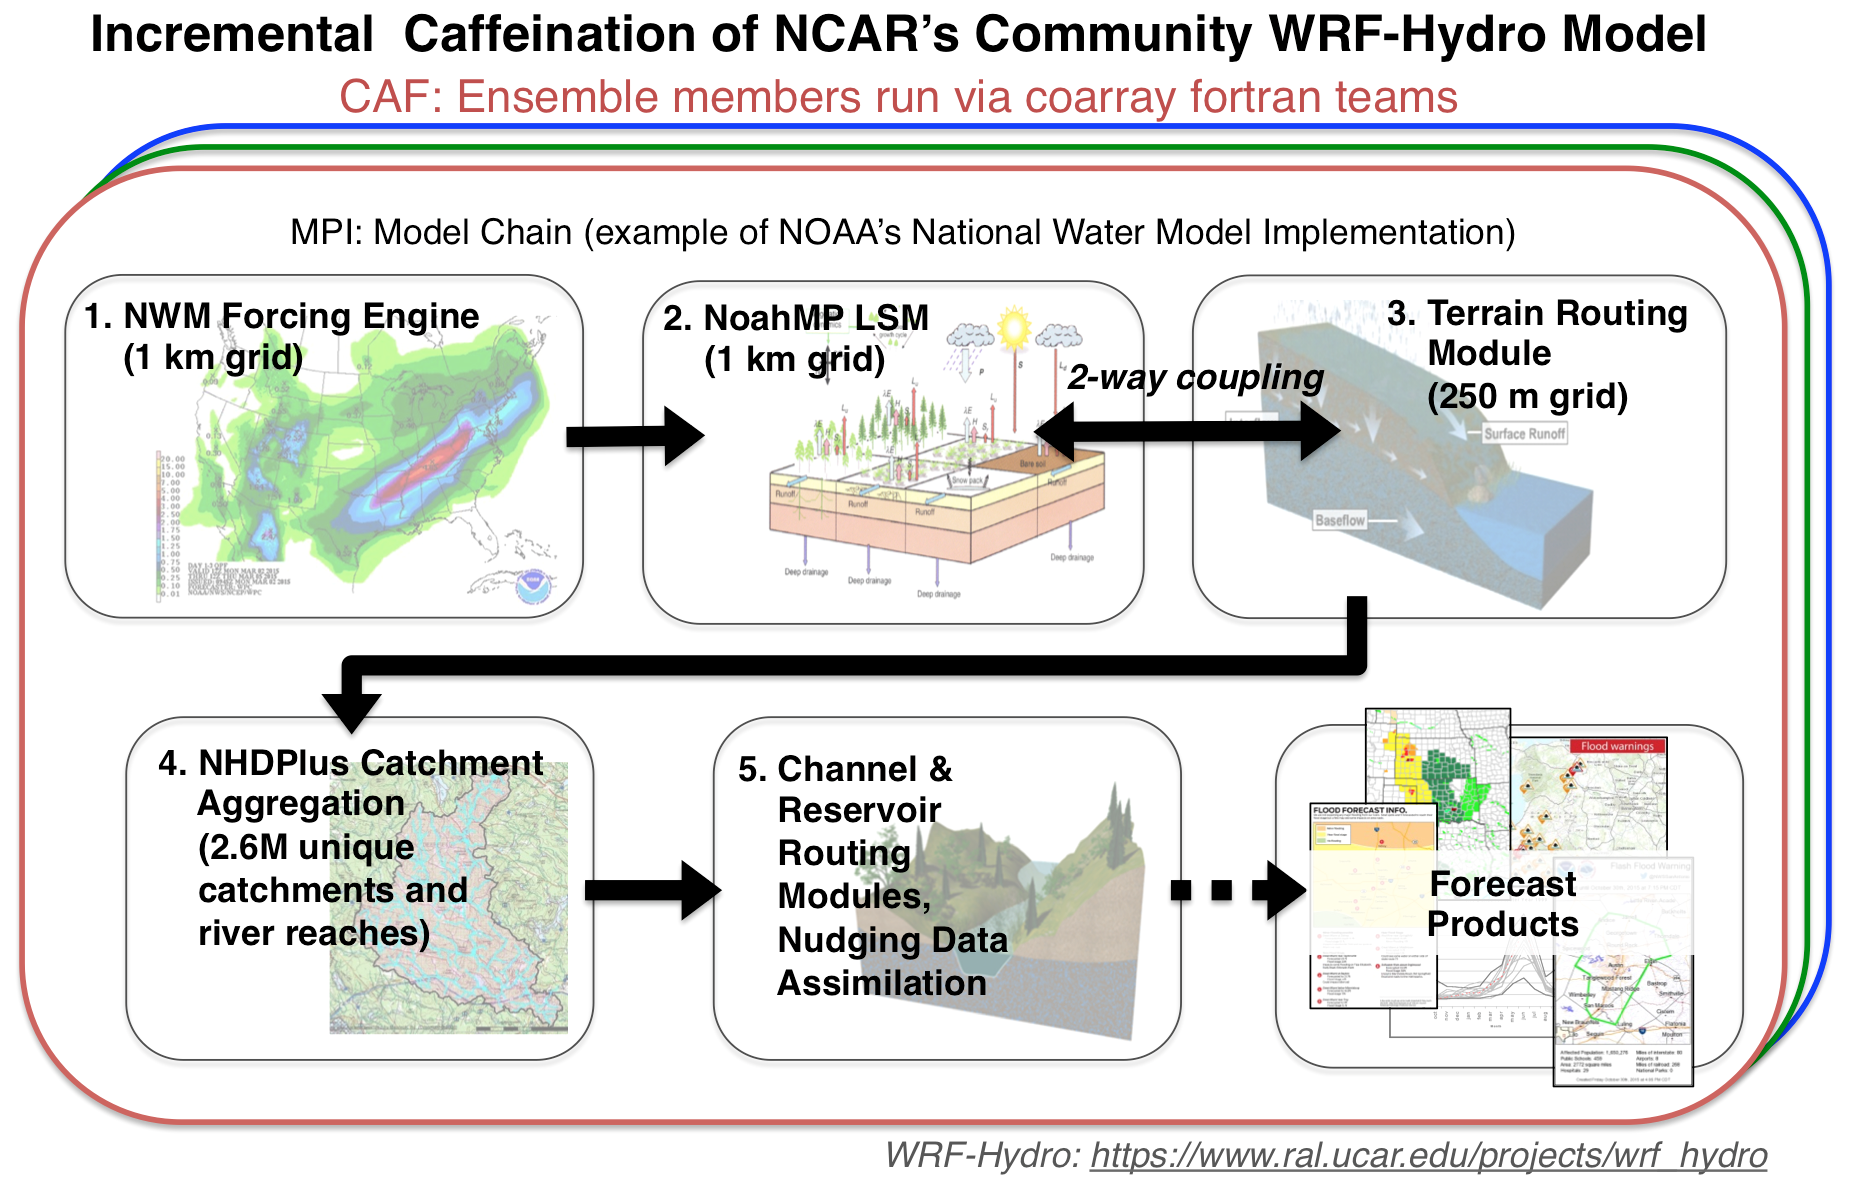
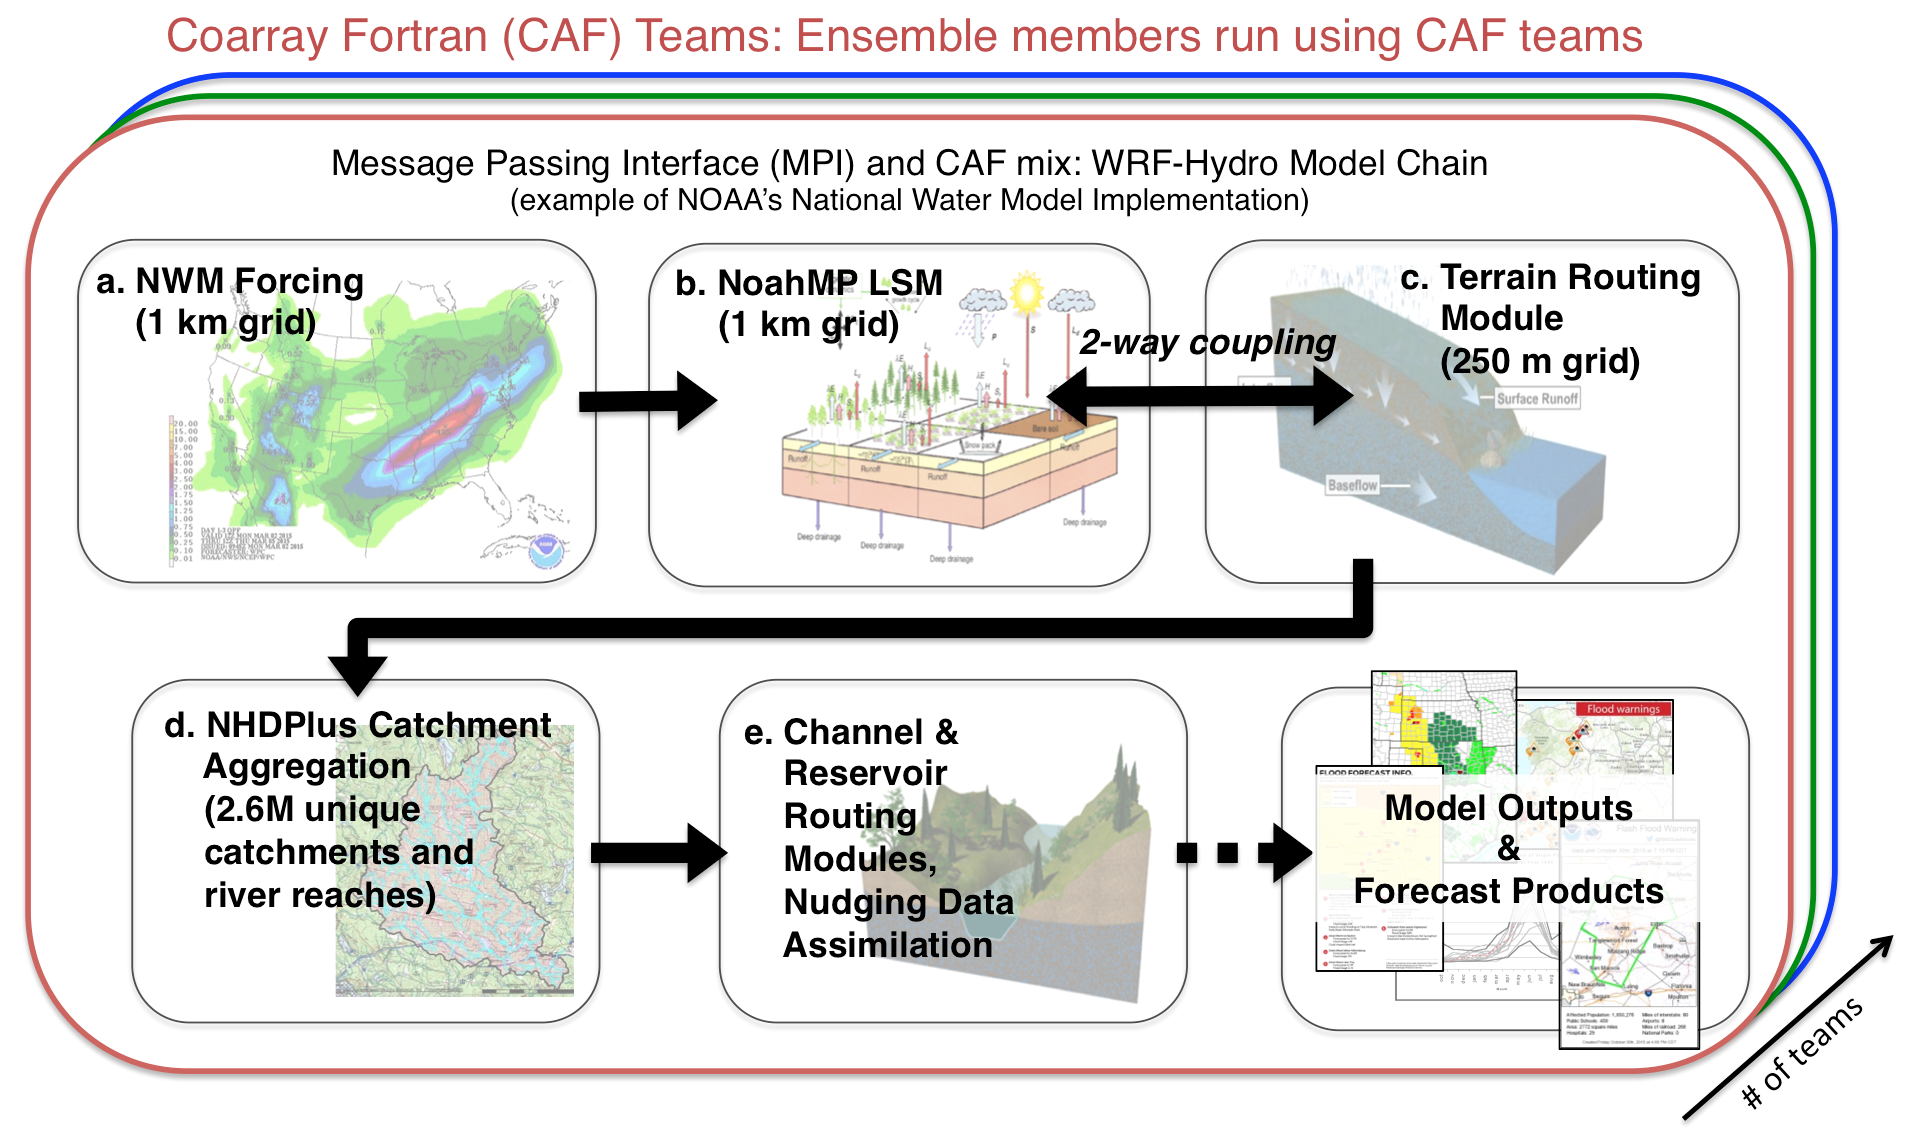
Minor improvements

diff --git a/body.tex b/body.tex
@@ -34,34 +34,37 @@ that is intended to facilitate the incremental introductionof \gls{caf} in an al
 
 WRF-Hydro is a community hydrologic modeling system developed at the
 National Center for Atmospheric Research.  WRF-Hydro provides a
-parallel-computing framework for coupling Numerical Weather Prediction models, land surface models, and a suite of hydrologic routing modules that handle
-spatial water redistribution via surface (overland) flow,
-subsurface (soil column) flow, baseflow (deep groundwater), and stream
-channel transport~\cite{gochisEtal}. 
+parallel-computing framework for coupling Numerical Weather Prediction
+models (Figure 2a), land surface models (Figure 2b), and a suite of hydrologic routing modules that handle
+spatial water redistribution via surface (overland) flow (Figure 2c),
+subsurface (soil column) flow (Figure 2c), baseflow (deep groundwater,
+Figure 2d), and stream
+channel transport (Figure 2e)~\cite{gochisEtal}. 
 
 While originally developed to couple land hydrology to the atmospheric processes of
 the WRF model, WRF-Hydro is most commonly run in ``offline'' mode where it is one-way
 coupled to (forced by) prescribed upper boundary (weather)
-conditions. The chief example is NOAA's operational
+conditions (Figure 2a). The chief example is NOAA's operational
 National Water Model~\cite{noaa2016}; a special configuration of
 WRF-Hydro which provides real-time analysis and forecasts of
-hydrologic states over the contiguous U.S. 
+hydrologic states over the contiguous U.S (Figure 2). 
 
 Ensemble forecasting and ensemble data assimilation are active and
 growing areas of research with WRF-Hydro. Running ensembles under a
-single executable and job submission on HPC platforms can greatly reduce the amount
+single executable and job submission on HPC platforms as shown in
+Figure 2 can greatly reduce the amount
 of labor involved in designing workflows and can open up new
 possibilities for improving data flows and optimizing ensemble run
 performance.
 
 In the application of teams to WRF Hydro, the main WRF-Hydro program is wrapped in a loop
 over the individual ensemble members. The number of images per team and the
- number of ensemble members are specified in a namelist. Along  with
+ number of ensemble members are specified in a namelist. Along with
  the number of available images, these parameters determine how many
  teams are formed and which teams handle which ensemble members. It is
  worth noting several details of separate runs which may potentially need altering
- when running enembles via teams: 1) MPIINIT, 2) MPIFINALIZE, 3)
- variable initialization and allocation, 4) STOP.   
+ when running enembles via teams: 1) \texttt{MPI\_INIT}, 2) \texttt{MPI\_FINALIZE}, 3)
+ variable initialization and allocation, 4) \texttt{STOP}.   
  
 
 \section{Discussion of Results}
@@ -134,10 +137,15 @@ The list of available and used teams are both initialized to team 1 (equivalent 
 \begin{figure*}
 \includegraphics[width=0.7\textwidth]{figures/WRF-Hydro-caf-ens-model_chain.png}
 \vspace{-7pt}
-\caption{Example showing the partially caffeniated WRF-Hydro Model Chain (NOAA's National Water
-  Model Implementation) which is already under MPI (in blue = decaf). Coarray
-  fortran teams are applied to multiple model chains as ensemble members under the same
-  executable. One such ensemble member is shown in the red box.}
+\caption{Caffeniation of NCAR's WRF-Hydro model using coarray Fortran (CAF)
+  teams. Specific example components of  NOAA's National Water
+  Model are shown. Independent CAF teams run under a single Fortran executable are represented by the different colors
+  (MPI terminology) in the stack.  Teams run separate instances
+  (ensemble members) of the WRF-Hydro model chain to enable ensemble
+  simulation and forecasting. The work presented  here supports for ``partial model caffeination'' with grouped
+  paralleism (CAF teams): the underlying WRF-Hydro Model Chain
+  originally under MPI can be transitioned incrementally towards CAF
+  over time}
 \end{figure*}
 %
 
